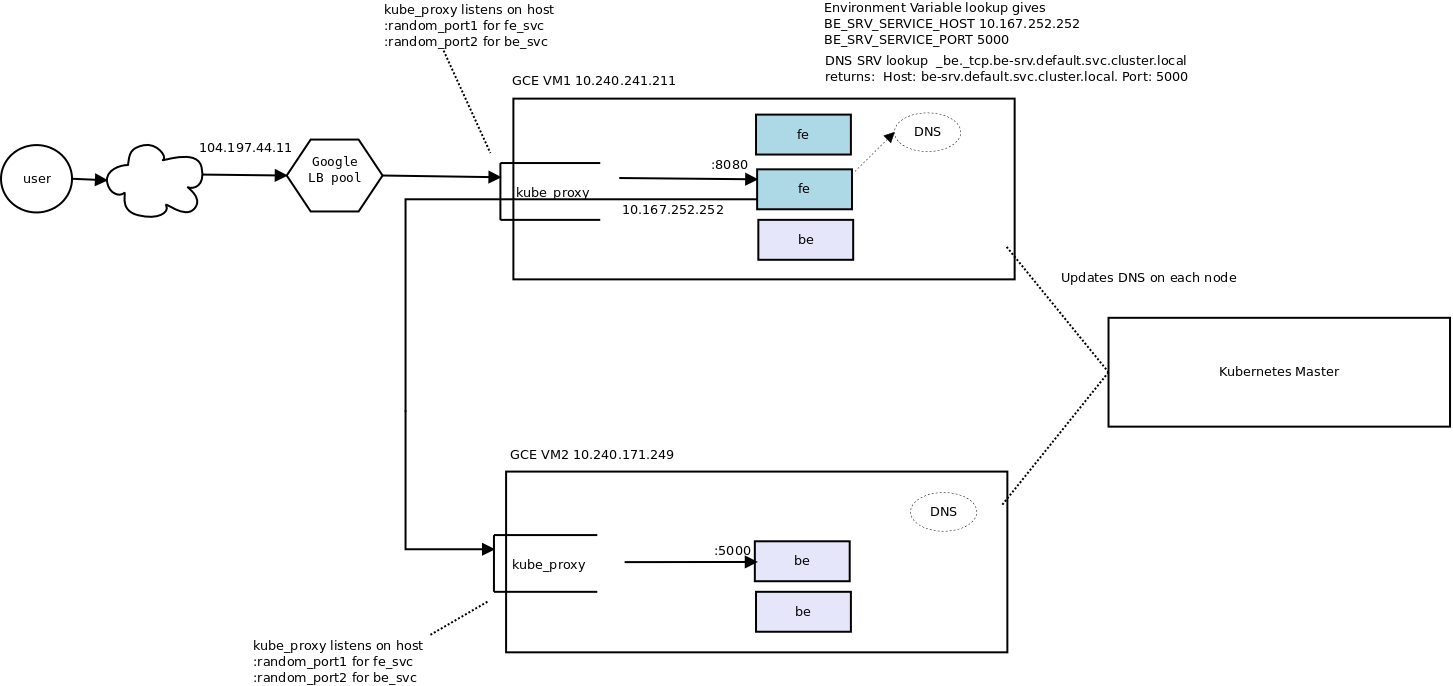
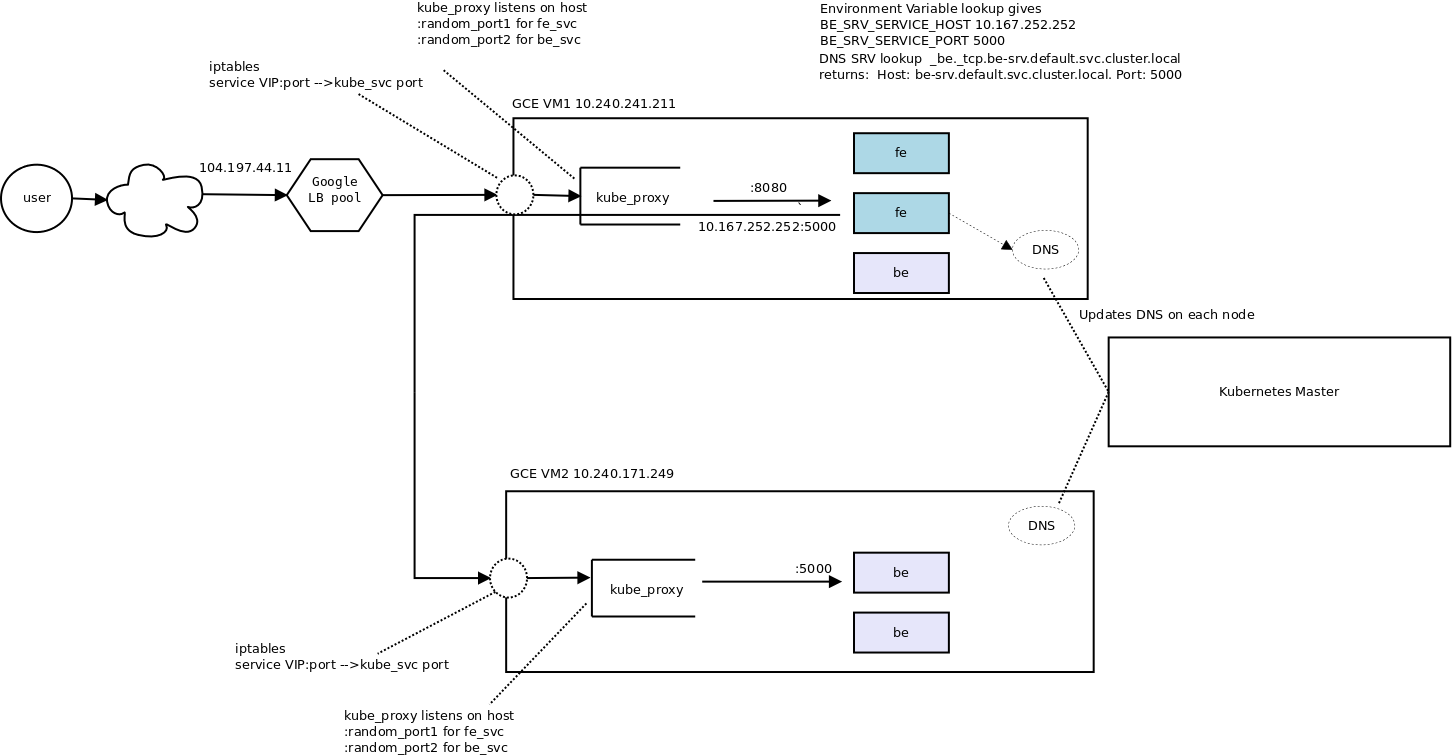
Add proxy vip/iptable reference

diff --git a/README.md b/README.md
@@ -269,7 +269,9 @@ The output also shows the DNS SRV request contained the host and port to connect
 
 
 ###Call Flow
-The following shows the call flow between the calls as a 
+The following shows the call flow between the the frontend and backend.  
+
+For a detailed description of the proxy and VIPs, see [Kubernetes Services](http://kubernetes.io/v1.0/docs/user-guide/services.html#ips-and-vips)
 
 ![Call Flow](images/kube_flow.png) 
 
